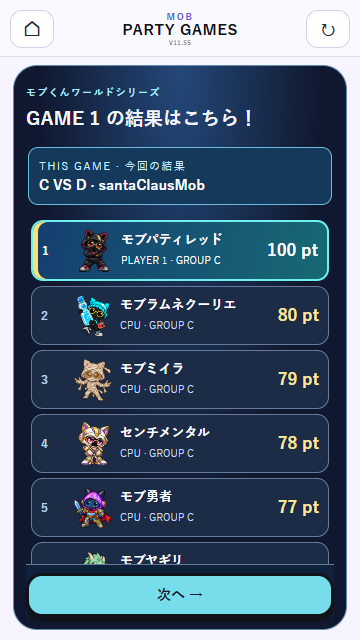
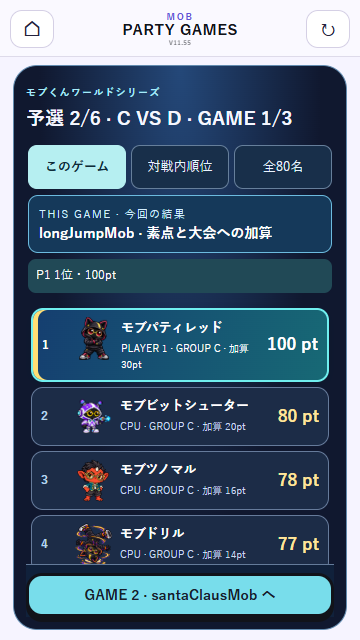
up

diff --git a/party-festival.js b/party-festival.js
@@ -20,18 +20,69 @@ window.MobFestival={create(api){
   return '<div class="festival-scroll league-ranks" tabindex="0" aria-label="出場者・順位一覧">'+ids.map((id,i)=>{const a=p(id),rank=Object.hasOwn(values,id)?1+ids.filter(other=>(values[other]||0)>(values[id]||0)).length:i+1;return '<article class="festival-row league-rank '+(!a.cpu?'human-banner':'')+'" data-player="'+id+'"><b class="festival-place">'+rank+'</b><div><img src="'+a.img+'" alt=""><strong>'+esc(a.name)+'</strong><small>'+(!a.cpu?'PLAYER '+a.no:'CPU')+(mode==='world'?' · GROUP '+String.fromCharCode(65+a.group):'')+(a.seed?' · SEED':'')+(s.lit.includes(id)?' · ● 点灯':'')+(notes[id]!==undefined?' · '+esc(typeof notes[id]==='number'?'加算 '+notes[id]+'pt':notes[id]):'')+'</small></div><strong>'+(hidden?'？？？':Object.hasOwn(values,id)?values[id]+' pt':'')+'</strong></article>'}).join('')+'</div>';
  }
  function scope(overall=false,text=''){return '<div class="ranking-scope '+(overall?'overall':'round')+'"><small>'+(overall?'OVERALL · 総合順位':'THIS GAME · 今回の結果')+'</small><strong>'+esc(text||(overall?'大会の累計ポイント':'このゲームだけの順位'))+'</strong></div>'}
- function groupIntro(index=0){
-  if(index===4){progress();return}const letter=String.fromCharCode(65+index),ids=s.players.filter(p=>p.group===index).map(p=>p.id);
-  view('GROUP '+letter,speech(letter+'グループのみなさんはこっちらです！')+'<div class="festival-group-emblem" aria-hidden="true">'+letter+'</div>'+rows(ids)+button(index===3?'開幕戦へ！':'次のグループへ →'),'festival-roster festival-group-'+index);on(()=>groupIntro(index+1));
+ function groupIntro(index=s.players.find(player=>!player.cpu)?.group || 0){
+  const letter=String.fromCharCode(65+index);
+  const ids=s.players.filter(player=>player.group===index).map(player=>player.id);
+  const tabs=['A','B','C','D'].map((name,i)=>
+    '<button data-group="'+i+'" aria-pressed="'+(i===index)+'">'+name+'組</button>').join('');
+  view('予選の組み分け', '<nav class="festival-tabs">'+tabs+'</nav>'+
+    speech(letter+'グループのみなさんはこっちらです！')+rows(ids)+button('第1カード A VS B へ'),'festival-roster');
+  screen.querySelectorAll('[data-group]').forEach(el=>el.onclick=()=>groupIntro(Number(el.dataset.group)));
+  on(progress);
  }
  function bracket(done,highlight=null){
-  const rounds=[s.players.map(p=>p.id)];for(let r=0;r<5;r++){const previous=rounds[r],next=[];for(let i=0;i<previous.length;i+=2){const rec=s.history.find(h=>h.type==='match'&&h.round===r&&h.winner&&h.ids.includes(previous[i]));next.push(rec?.winner||null)}rounds.push(next)}
-  const labels=['ROUND 32','BEST 16','BEST 8','SEMI FINAL','FINAL','CHAMPION'];
-  const html=rounds.map((ids,r)=>'<section class="festival-bracket-round" style="--bracket-step:'+48*2**r+'px"><h2>'+labels[r]+'</h2><div class="festival-bracket-slots">'+ids.map((id,i)=>{const c=id?p(id):null,won=id&&rounds[r+1]?.includes(id),lost=id&&s.history.some(h=>h.round===r&&h.winner&&h.ids.includes(id)&&h.winner!==id);return '<article class="bracket-slot '+(c&&!c.cpu?'human-banner ':'')+(id===highlight?'bracket-advance ':'')+(won?'bracket-won ':'')+(lost?'bracket-lost':'')+'" '+(id?'data-bracket-player="'+id+'"':'')+'>'+ (c?'<img src="'+c.img+'" alt=""><span>'+esc(c.name)+'<small>'+(!c.cpu?'PLAYER '+c.no:won?'勝ち上がり':lost?'敗退':'CPU')+'</small></span>':'<span>対戦待ち</span>')+'</article>'}).join('')+'</div></section>').join('');
-  view(highlight?'勝ち上がり決定！':'32名 · TOURNAMENT',scope(false,highlight?p(highlight).name+' が次のステージへ！':'4ブロックから、頂点へ。横に送ると決勝まで確認できます。')+'<nav class="bracket-nav" aria-label="ブロックへ移動">'+['A','B','C','D'].map((label,i)=>'<button data-block="'+i+'">'+label+'ブロック</button>').join('')+'</nav><div class="festival-bracket" tabindex="0" aria-label="32名トーナメント表">'+html+'</div>'+button(s.champion?'優勝セレモニーへ':'次の勝負へ →'),'festival-bracket-view');on(done);
-  screen.querySelectorAll('[data-block]').forEach(b=>b.onclick=()=>{const id=s.players[Number(b.dataset.block)*8].id;screen.querySelector('[data-bracket-player="'+id+'"]')?.scrollIntoView({block:'nearest',inline:'start',behavior:'instant'})});
-  if(!highlight){const human=s.players.find(p=>!p.cpu);if(human)screen.querySelector('[data-bracket-player="'+human.id+'"]')?.scrollIntoView({block:'nearest',inline:'start',behavior:'instant'})}
-  if(highlight){api.beep(1047,160,.025);const slots=screen.querySelectorAll('.bracket-advance');slots[slots.length-1]?.scrollIntoView({block:'nearest',inline:'center',behavior:'instant'})}
+  const entrants=s.players.map(player=>player.id);
+  const levels=[entrants], names=['1回戦','2回戦','準々決勝','準決勝','決勝'];
+  const records=[];
+  for(let round=0;round<5;round++){
+    const slots=levels[round], matches=[];
+    for(let i=0;i<slots.length;i+=2){
+      matches.push(s.history.find(h=>h.round===round&&h.winner&&h.ids.includes(slots[i])));
+    }
+    records.push(matches);
+    levels.push(matches.map(record=>record?.winner));
+  }
+  const focus=highlight||s.players.find(player=>!player.cpu)?.id;
+  let round=highlight?Math.min(4,levels.findLastIndex(slots=>slots.includes(highlight))):Math.min(4,s.round);
+  let block=Math.max(0,Math.floor(entrants.indexOf(focus)/8));
+  function render(){
+    const slots=levels[round], size=round<3?8/(2**round):slots.length;
+    const start=round<3?block*size:0;
+    const choices=names.map((name,i)=>'<option value="'+i+'" '+(i===round?'selected':'')+'>'+name+'</option>').join('');
+    const tabs=['A','B','C','D'].map((name,i)=>'<button data-block="'+i+'" aria-pressed="'+(i===block)+'">'+name+'組</button>').join('');
+    const matches=[];
+    for(let i=start;i<start+size;i+=2){
+      const match=i/2,record=records[round][match];
+      const sides=slots.slice(i,i+2).map((id,side)=>{
+        if(!id)return '<div class="draw-entry pending">'+names[round-1]+' 第'+(i+side+1)+'試合の勝者</div>';
+        const player=p(id),winner=record?.winner===id;
+        return '<div data-bracket-player="'+id+'" class="draw-entry '+(!player.cpu?'human-banner ':'')+(highlight===id?'bracket-advance':'')+'"><img src="'+player.img+'" alt=""><span>'+esc(player.name)+(!player.cpu?' <small>P'+player.no+'</small>':'')+'</span><b>'+(winner?'勝 ': '')+(record?record.scores[id]+'点':'')+'</b></div>';
+      }).join('');
+      const next=round===4?'勝者が優勝':names[round+1]+' 第'+(Math.floor(match/2)+1)+'試合へ';
+      matches.push('<article class="draw-match"><header>第'+(match+1)+'試合 <small>'+next+'</small></header>'+sides+'</article>');
+    }
+    view('32名トーナメント表','<div class="draw-controls"><label>ラウンド<select id="drawRound">'+choices+'</select></label>'+
+      (round<3?'<nav class="festival-tabs">'+tabs+'</nav>':'')+'</div>'+
+      (highlight?'<p class="draw-promotion">'+esc(p(highlight).name)+(s.champion?' が優勝！':' が勝ち上がり！')+'</p>':'')+
+      matches.join('')+button(s.champion?'優勝画面へ':'対戦へ進む'),'draw-board');
+    screen.querySelector('#drawRound').onchange=e=>{round=Number(e.target.value);render()};
+    screen.querySelectorAll('[data-block]').forEach(el=>el.onclick=()=>{block=Number(el.dataset.block);render()});
+    on(done);
+  }
+  render();
+ }
+ function worldPage(heading,pages,selected,label,next){
+  function render(i){
+    const page=pages[i],ranked=R.ranked(page.ids,page.scores);
+    const controls=pages.map((item,n)=>'<button data-scores="'+n+'" aria-pressed="'+(n===i)+'">'+item.label+'</button>').join('');
+    const personal=ranked.filter(row=>!p(row.id).cpu).map(row=>'P'+p(row.id).no+' '+row.rank+'位・'+row.points+'pt').join(' ／ ');
+    view(heading,'<nav class="festival-tabs">'+controls+'</nav>'+scope(page.overall,page.caption)+
+      (personal?'<p class="personal-standing">'+personal+'</p>':'')+
+      rows(ranked.map(row=>row.id),page.scores,false,page.notes)+button(label),'festival-results');
+    screen.querySelectorAll('[data-scores]').forEach(el=>el.onclick=()=>render(Number(el.dataset.scores)));
+    on(next);
+  }
+  render(selected);
  }
  function speech(text,pink=false){return '<aside class="festival-host"><img src="'+(pink?'main/012.png':'assets/commentary/mob-white.png')+'" alt="'+(pink?'モブピンク':'モブホワイト')+'"><p><small>'+(pink?'モブピンク · CLEAR LINE':'モブホワイト · LIVE')+'</small><strong>'+text+'</strong></p></aside>'}
  function announce(heading,text,ids,next,cls=''){
@@ -130,14 +181,18 @@ window.MobFestival={create(api){
   function nextGame(){const key=d.selected[s.game];run(key,ids,false,points=>{
    const result=R.worldResult(s,points),rec=result.record;if(rec.game===3)s.worldDraw=null;for(const id of ids)s.legScores[id]=(s.legScores[id]||0)+rec.earned[id];save();
    const advance=()=>{s.worldDraw=null;save();if(s.phase==='final')finalists();else world()};
-   if(cpuOnly(ids)){if(rec.game<3){nextGame();return}standings(label+' · CPU 3戦の総合結果',ids,s.legScores,advance);return}
-   view('GAME '+rec.game+' の結果はこちら！',scope(false,label+' · '+title(key))+rows(R.ranked(ids,points).map(r=>r.id),points,false,rec.earned)+'<p>順位点＋得点ボーナスを総合に加算しました。</p>'+button(),'festival-results');
-   on(()=>{if(rec.game<3){standings(label+' · 現在の総合順位',ids,s.legScores,nextGame);return}
-    standings(label+' の総合はこっちらです！',ids,s.legScores,()=>standings('A～D・80名の総合はこっちらです！',s.players.map(p=>p.id),s.phase==='final'?s.qualifyingScores:s.scores,()=>{s.worldDraw=null;save();if(s.phase==='final')finalists();else world()}));
-   });
+   const gamePage={label:'このゲーム',caption:title(key)+' · 素点と大会への加算',ids,scores:points,notes:rec.earned};
+   const cardPage={label:'対戦内順位',caption:label+' の累計獲得ポイント',ids,scores:s.legScores,overall:true};
+   const allPage={label:'全80名',caption:'予選総合 · 上位20名が決勝へ',ids:s.players.map(player=>player.id),scores:rec.totals,overall:true};
+   if(cpuOnly(ids)&&rec.game<3){nextGame();return}
+   const more=rec.game<3;
+   const nextPair=R.MATCHUPS[rec.leg+1]?.map(n=>String.fromCharCode(65+n)).join(' VS ');
+   const nextLabel=more?'GAME '+(rec.game+1)+' · '+title(d.selected[rec.game])+' へ':nextPair?nextPair+' へ':s.phase==='cutoff'?'進出決定戦へ':'決勝進出者を見る';
+   worldPage('予選 '+(rec.leg+1)+'/6 · '+label+' · '+(cpuOnly(ids)?'CPU 3戦終了':'GAME '+rec.game+'/3'),
+     [gamePage,cardPage,allPage],cpuOnly(ids)?1:0,nextLabel,more?nextGame:advance);
   })}
   if(cpuOnly(ids)){nextGame();return}
-  announce(label+' 開っ始です！！','はいです！ '+label+'、激突です！！ 10候補から3ゲームで勝負です！',ids,()=>roulette(d,nextGame),'festival-match-start festival-roster');
+  announce('予選 '+(s.leg+1)+'/6 · '+label+' 開っ始です！！','はいです！ '+label+'、激突です！！ 10候補から3ゲームで勝負です！',ids,()=>roulette(d,nextGame),'festival-match-start festival-roster');
  }
  function finalists(){announce('決勝に進む上位20名はこっちらです！！','決勝は0点スタート！ 80点で点灯、点灯後の1位で優勝です！ 5人点灯ごとに集中爆弾です！',s.finalists,worldFinal,'festival-qualified')}
  function worldFinal(){
@@ -145,7 +200,11 @@ window.MobFestival={create(api){
   const play=()=>run(key,ids,false,points=>{
    const result=R.worldResult(s,points,{bomb});save();
    if(s.champion){champion(s.champion);return}
-   const show=()=>standings('GAME '+s.history.length+' の結果はこちら！',ids,points,()=>standings('決勝の総合順位はこちら！',s.finalists,s.scores,worldFinal));
+   const finalRound=s.history.filter(record=>['final','showdown'].includes(record.phase)).length;
+   const show=()=>worldPage('決勝 第'+finalRound+'戦',[
+     {label:'このゲーム',caption:title(key),ids,scores:points,notes:result.record.earned},
+     {label:'決勝総合',caption:'80ptで点灯 · 点灯後の1位で優勝',ids:s.finalists,scores:s.scores,overall:true}
+   ],0,'次の決勝戦へ',worldFinal);
    if(result.newLit?.length&&!cpuOnly(ids))announce('MATCH POINT · 点灯！','次の単独1位で優勝です！！',result.newLit,show,'festival-ignition');else show();
   });
   if(cpuOnly(ids)){play();return}

diff --git a/party-october-games.js b/party-october-games.js
@@ -3,7 +3,30 @@
  const clamp=v=>Math.max(0,Math.min(1,v));
  const quality=value=>clamp(1-Math.max(0,Math.abs(value-.5)-.045)/.455);
  const catchCount=values=>Math.min(35,Math.round(35*Math.pow(values.reduce((a,v)=>a*quality(v),1),.55)));
- async function run(api){const {screen,key,player,valid,esc,beep}=api,extreme=key==='catcherExtremeMob';let phase='ready',step=0,value=0,start=0,raf=0,chosen=null,values=[],finished=false;
+
+ async function runPlush(api){
+ const {screen,player,valid,esc,beep}=api,prizes=[100,80,65],positions=[36,60,84];
+ let phase='ready',chosen=0,start=0,raf=0,value=0;
+ screen.innerHTML=`<section class="oct-crane ufo-plush-machine gameplay-fit"><header><small>${esc(player.name)}</small><h2>モブくんはぬいぐるみが好き</h2></header><div class="oct-crane-hud"><b>1回勝負</b><strong id="plushStatus">景品を選ぼう</strong></div><div class="ufo-plush-cabinet"><div class="ufo-plush-marquee">MOB UFO CATCHER</div><div class="ufo-plush-rail"></div><div class="ufo-plush-chute"><b>GET</b></div><div class="ufo-plush-shelf"></div>${prizes.map((n,i)=>`<div class="ufo-plush-prize" style="left:${positions[i]}%"><img id="plushToy${i}" src="icon/${String(i+1).padStart(2,'0')}.png" alt="${n}点のぬいぐるみ"><b>${n}点</b></div>`).join('')}<div class="ufo-plush-aim" hidden></div><div class="ufo-plush-carriage" id="plushCarriage"><div class="ufo-plush-cable"></div><div class="ufo-plush-head"><i class="ufo-plush-finger left"></i><i class="ufo-plush-finger right"></i></div></div><div class="ufo-plush-score" hidden></div></div><p id="plushGuide">景品を選び、アームを真上で止めよう！</p><div class="oct-targets">${prizes.map((n,i)=>`<button data-prize="${i}" disabled>${n}点<small>${['むずかしい','ふつう','やさしい'][i]}</small></button>`).join('')}</div><button class="primary" id="plushStop" disabled>準備中</button></section>`;
+ const cabinet=screen.querySelector('.ufo-plush-cabinet'),carriage=screen.querySelector('#plushCarriage'),stop=screen.querySelector('#plushStop'),guide=screen.querySelector('#plushGuide'),status=screen.querySelector('#plushStatus'),aim=screen.querySelector('.ufo-plush-aim');
+ const at=now=>(1-Math.cos((now-start)/1000*Math.PI*1.6))/2;
+ function position(v){carriage.style.left=(positions[chosen]+(v-.5)*20)+'%'}
+ function frame(now){if(!valid()||phase!=='aim')return;value=at(now);position(value);raf=requestAnimationFrame(frame)}
+ const wait=ms=>new Promise(r=>setTimeout(r,ms));
+ async function grab(score){
+ phase='grab';cancelAnimationFrame(raf);stop.disabled=true;aim.hidden=true;carriage.classList.add('moving');guide.textContent='アーム下降！';carriage.style.top='55%';await wait(550);if(!valid())return;
+ carriage.classList.add('closed');beep(420,70,.02);await wait(240);if(!valid())return;
+ const toy=screen.querySelector('#plushToy'+chosen);
+ if(score){toy.classList.add('ufo-plush-held');carriage.append(toy);guide.textContent='つかんだ！ 取り出し口へ';}else guide.textContent='惜しい！ 景品の中心からずれた…';
+ carriage.style.top='24%';await wait(550);if(!valid())return;
+ if(score){carriage.style.left='12%';await wait(650);if(!valid())return;carriage.classList.remove('closed');toy.style.left='12%';toy.style.top='calc(24% + 23px)';toy.className='ufo-plush-dropping';cabinet.append(toy);void toy.offsetHeight;toy.style.top='79%';await wait(480);if(!valid())return;}
+ phase='done';const result=screen.querySelector('.ufo-plush-score');result.hidden=false;result.textContent=score?score+'点 GET!':'0点';status.textContent=score?'キャッチ成功！':'キャッチ失敗';guide.textContent=score?'取り出し口に景品が届いた！':'次はアームを景品の真上で止めよう！';stop.disabled=false;stop.textContent='結果を見る';stop.onclick=()=>{if(!valid())return;stop.disabled=true;api.done(score,prizes[chosen]+'点のぬいぐるみ / 1回勝負')};beep(score?1050:180,180,.03);
+ }
+ stop.onclick=()=>{if(phase!=='aim'||!valid())return;value=at(performance.now());position(value);const ok=Math.abs(value-.5)<=[.045,.10,.16][chosen];grab(ok?prizes[chosen]:0)};
+ if(!(await api.countdown())||!valid())return;phase='choose';stop.textContent='景品を選んでください';
+ screen.querySelectorAll('[data-prize]').forEach(b=>{b.disabled=false;b.onclick=()=>{if(phase!=='choose'||!valid())return;chosen=Number(b.dataset.prize);screen.querySelectorAll('[data-prize]').forEach(x=>{x.disabled=true;x.classList.toggle('selected',x===b)});aim.style.left=positions[chosen]+'%';aim.hidden=false;status.textContent=prizes[chosen]+'点に挑戦';guide.textContent='動くアームを景品の真上でSTOP！';stop.textContent='ここでアームを下ろす';stop.disabled=false;phase='aim';start=performance.now();frame(start)}});
+ }
+ async function run(api){if(api.key==='plushCatcher')return runPlush(api);const {screen,key,player,valid,esc,beep}=api,extreme=key==='catcherExtremeMob';let phase='ready',step=0,value=0,start=0,raf=0,chosen=null,values=[],finished=false;
  screen.innerHTML=`<section class="oct-crane gameplay-fit"><header><small>${esc(player.name)}</small><h2>${extreme?'モブくんキャッチャーの極み':'モブくんはぬいぐるみが好き'}</h2></header><div class="oct-crane-hud"><b>1回勝負</b><strong id="octStatus">${extreme?'35体 / 3つのゲージ':'狙うぬいぐるみを選ぼう'}</strong></div><div class="oct-cabinet"><div class="oct-rail"></div><div class="oct-claw" id="octClaw"><i></i><b>∩</b></div><div class="oct-toys">${Array.from({length:extreme?35:3},(_,i)=>`<img data-toy="${i}" src="icon/${String(i%10+1).padStart(2,'0')}.png" alt="ぬいぐるみ" style="--toy:${i}">`).join('')}</div><div class="oct-result" id="octResult" hidden></div></div><p id="octGuide">${extreme?'白線の中央でSTOP！ 大きさ → 幅 → 強さ':'高い得点ほど成功する範囲が狭くなります'}</p>${extreme?'':`<div class="oct-targets">${[100,80,65].map((n,i)=>`<button data-prize="${n}" data-difficulty="${i}">${n}点<small>${['むずかしい','ふつう','やさしい'][i]}</small></button>`).join('')}</div>`}<div class="oct-gauge" id="octGauge"><span></span><i id="octNeedle"></i><b>中央が最大</b></div><button class="primary" id="octStop" disabled>準備中</button></section>`;
  const stop=screen.querySelector('#octStop'),needle=screen.querySelector('#octNeedle'),guide=screen.querySelector('#octGuide'),status=screen.querySelector('#octStatus'),claw=screen.querySelector('#octClaw'),result=screen.querySelector('#octResult');
  if(!extreme)screen.querySelector('.oct-toys').classList.add('plush');

diff --git a/party-ui.css b/party-ui.css
@@ -515,3 +515,48 @@ html body #screen :is(input,textarea,select,[contenteditable]:not([contenteditab
 @media(max-height:640px){#screen .launch-shell .gauge-wrap{padding:8px!important;gap:6px}#screen .launch-shell .gauge-card{padding:7px}#screen .launch-shell .circle-gauge{width:clamp(130px,25dvh,180px);height:clamp(130px,25dvh,180px)}}
 .league-level-setup{display:grid;grid-template-columns:repeat(2,minmax(0,1fr));gap:5px}.league-level-setup>header,.league-level-setup>p,.league-level-setup>button{grid-column:1/-1}.league-level-setup>label{min-width:0;margin:2px 0!important}.league-level-setup select{width:100%;font-size:12px}.league-level-setup>p{margin:3px 0!important}.league-level-setup h1{font-size:23px!important}
 .league-level-setup .league-setup-actions{grid-column:1/-1;display:grid;grid-template-columns:1fr 1fr;gap:6px}.league-level-setup .league-setup-actions button{min-height:44px;margin:0}.league-level-setup #leagueSelect{grid-column:1/-1;order:-1}.league-level-setup .league-setup-actions:not(:has(#leagueResume)) #leagueBack{grid-column:1/-1}
+
+/* Mode choice and setup share the same visual hierarchy. */
+#screen .party-title{background:#f4f2e9;color:#17364b;border:1px solid #b5c9cb;border-radius:24px;padding:20px 14px}
+#screen .party-title>h1{font-size:clamp(28px,7vw,54px);margin:6px 0;line-height:1.05}
+#screen .party-title>.party-eyebrow,#screen .party-title-star,#screen .party-orbit{display:none}
+#screen .party-title .party-cast{height:88px;min-height:0;margin:5px 0 14px;overflow:hidden}
+#screen .party-title .party-cast img{height:84px;width:auto;max-width:35%;object-fit:contain}
+#screen .party-title .party-stage-label{display:none}
+#screen .party-title .party-tagline{color:#345366;margin:8px 0;font-size:14px}
+#screen .party-menu{display:block}
+.mode-group{margin:0 0 20px}.mode-group>h2{text-align:left;color:#18384c;font-size:18px;margin:10px 0}
+.mode-cards{display:grid;grid-template-columns:repeat(2,minmax(0,1fr));gap:10px}
+#screen .party-menu-button{--mode-color:#a3dfe1;display:flex;flex-direction:column;align-items:flex-start;justify-content:center;gap:7px;padding:15px 12px;min-width:0;min-height:130px;background:linear-gradient(135deg,#142e47ed,#233c54ec),url("assets/stage-scenes/showhall.webp") center/cover;color:#fff;border:1px solid #7693a3;border-top:4px solid var(--mode-color);border-radius:16px;box-shadow:0 4px 0 #142e471a;text-align:left;transform:none}
+#screen .party-menu-button>span:last-child{display:none}#screen .party-menu-button .party-menu-icon{display:none}
+#screen .party-menu-button b{font-size:16px;color:#fff;line-height:1.45;display:block;overflow-wrap:anywhere}
+#screen .party-menu-button small{font-size:9px;letter-spacing:.04em;color:var(--mode-color);display:block}
+#screen .party-menu-button em{font-size:11px;line-height:1.5;color:#dce6ec;display:block;margin-top:5px;font-style:normal}
+#screen #partySolo,#screen #partyMulti{--mode-color:#a7e6c9;background:linear-gradient(135deg,#214d48ed,#173c46ed),url("assets/stage-scenes/garden.webp") center/cover}
+#screen #partyTournament,#screen #partyKing,#screen #partyArena{--mode-color:#f3d39b}
+#screen #partyWhiteChallenge{--mode-color:#f4bacb}
+#screen .party-menu-button:hover{border-color:#53a5ac;box-shadow:0 5px 15px #142e472b}
+#screen :is(button,select):focus-visible{outline:3px solid #edac42;outline-offset:3px}
+#screen .setup-panel{background:linear-gradient(140deg,#18394f,#102237);color:#f5f8ff;border:1px solid #638795;border-radius:20px}
+#screen .setup-panel>header{border-bottom:1px solid #5c778b;padding:8px 3px 12px;text-align:left}
+#screen .setup-panel>header h1{color:#fff;font-style:normal}
+#screen .setup-panel .competition-body>label,#screen .setup-panel .competition-body .variant-assignments label,#screen .setup-panel .league-setup label{background:#213e55;color:#e3f3fa;border:1px solid #56798b;border-radius:12px;padding:10px;display:grid;gap:7px;margin:10px 0;font-size:12px}
+#screen .setup-panel select{background:#f3f6ef;color:#17364b;border:2px solid #82b7bc;border-radius:9px;font-size:16px;min-height:44px;width:100%}
+#screen .competition-actions button.primary,#screen .competition-actions .party-primary{background:#b8edf0;color:#12323f;border:1px solid #82bdc1;font-weight:800;border-radius:12px}
+#screen .competition-actions button.secondary{background:#284358;color:#eef5f8;border:1px solid #678798;border-radius:12px}
+#screen .shared-character-select{background:#152e45;color:#fff;border-radius:20px;border:1px solid #6c8a9d}
+#screen .shared-character-select .party-heading h1{color:#fff;font-size:23px}
+#screen .shared-character-select .party-eyebrow{color:#b4e9eb}
+#screen .shared-character-select .character-filter{color:#e1edf5}
+#screen .shared-character-select .character-tile{background:#264257;color:#fff;border:1px solid #688398;border-radius:12px;box-shadow:none}
+#screen .shared-character-select .character-tile span{color:#fff}
+#screen .shared-character-select .character-tile[aria-pressed=true]{background:#436567;border:3px solid #ffe2a1;box-shadow:inset 0 0 0 1px #253f4f}
+#screen .shared-character-select .character-tile:disabled{opacity:.4}
+#screen .shared-character-select .party-player-slots span{background:#284458;color:#fff;border:1px solid #658194}
+#screen .shared-character-select .party-player-slots .current{background:#c9eff0;color:#173748;border-color:#c9eff0}
+#screen .shared-character-select .party-fighter-dock{background:#152e45;border-top:1px solid #6b91a4}
+#screen .shared-character-select .party-spotlight{background:#23475a;color:#fff;border:1px solid #6d929d;border-radius:12px}
+#screen .shared-character-select .party-spotlight h2{color:#fff}
+#screen .shared-character-select .party-spotlight small{color:#d2e9ee}
+#screen .shared-character-select #partyConfirm{background:#b9edf0;color:#163848;border:1px solid #8dbfc4;border-radius:12px;min-height:48px}
+@media(min-width:760px){.mode-cards{grid-template-columns:repeat(3,minmax(0,1fr))}}

diff --git a/party-scene-art.css b/party-scene-art.css
@@ -10,3 +10,34 @@
 [data-classic="catcher"] .ufo-marquee{background-color:#454965;color:#fff0bd;text-shadow:0 2px 2px #142338}[data-classic="catcher"] .ufo-glass{background-color:#746c90;box-shadow:inset 0 0 0 2px #b9cbc3,inset 0 0 35px #28355244}[data-classic="catcher"] .ufo-back-logo{color:#fff0c01c;text-shadow:none}[data-classic="catcher"] .ufo-control-panel{background:linear-gradient(#e9dbc1,#bbad9d);border-color:#667487;box-shadow:inset 0 3px 0 #fff2c8}[data-classic="catcher"] .ufo-chute{box-shadow:inset 0 0 0 2px #e9d5a4,inset 0 5px 10px #192b3b55}
 [data-classic="tidy"] .tidy-room{background-color:#c6c6aa;border-color:#698183;box-shadow:inset 0 0 0 2px #e7dfbc}[data-classic="tidy"] .tidy-room-label{color:#263f48;background:#e5dfc5;border-radius:6px;box-shadow:inset 0 -2px #a6a68b}[data-classic="tidy"] .tidy-shelf{background:linear-gradient(90deg,#987355,#d0a47c,#987355);box-shadow:inset 0 3px 0 #e4c398,0 5px 5px #4e493e44}[data-classic="tidy"] .tidy-table{background:linear-gradient(#d4ad79,#a17d58);box-shadow:inset 0 2px #f0d2a1,0 5px 4px #78604544}[data-classic="tidy"] .tidy-rug{background:repeating-linear-gradient(90deg,#a4b6a0 0 6px,#bdc6a9 6px 10px);border-color:#637f70}
 [data-classic="ski"] .ski-stage{background-color:#a6cbd2;box-shadow:inset 0 0 0 2px #c2dcd8;border-color:#668d9b}[data-classic="ski"] .ski-slope-main,[data-classic="ski"] .ski-flight-ground{filter:drop-shadow(0 4px 2px #527d8955)}[data-classic="ski"] .ski-takeoff-lip{box-shadow:0 0 0 2px #fff2bb}
+
+/* Static illustrations sit on the stage surface, below every interactive piece. */
+#screen .fruit-bg-v197 { --stage-art: url("assets/stage-scenes/orchard.webp"); }
+#screen .cloth-room-v202 { --stage-art: url("assets/stage-scenes/dining.webp"); }
+#screen .clean-floor-v203 { --stage-art: url("assets/stage-scenes/parquet.webp"); }
+#screen .poi-stage-v204 { --stage-art: url("assets/stage-scenes/depot.webp"); }
+#screen .oct-cabinet { --stage-art: url("assets/stage-scenes/cabinet.webp"); }
+#screen .amida100-stage-v203 { --stage-art: url("assets/stage-scenes/paper.webp"); }
+#screen :is(.rps224-stage, .bombpass-stage-v202) { --stage-art: url("assets/stage-scenes/arena.webp"); }
+#screen :is(.fruit-bg-v197,.cloth-room-v202,.clean-floor-v203,.poi-stage-v204,.oct-cabinet,.amida100-stage-v203,.rps224-stage,.bombpass-stage-v202) {
+  background-image: var(--stage-art);
+  background-position: center;
+  background-size: 100% 100%;
+  background-repeat: no-repeat;
+}
+#screen .rps224-stage::before { opacity: .12; }
+#screen .obsrace-stage-v202 { background: #b1cfcd url("assets/stage-scenes/track.webp") center / 100% 100% no-repeat; }
+#screen .obsrace-world-v202 { background: transparent; }
+
+#screen .treasure-stage-v126 { background-image:url("assets/stage-scenes/ruins.webp"); }
+#screen .treasure-stage-v126 { background-size:100% 100%;background-position:center;background-repeat:no-repeat; }
+
+/* Active games only: bungeeMob, curlingMob, swimmingMob, waterSkip.
+   Scenery stays below existing targets; no changes to world geometry or input. */
+#screen .bungee-stage-v127 { background-image:url("assets/stage-scenes/canyon.svg"); background-size:100% 100%; }
+#screen .curling48-ice { background-image:url("assets/stage-scenes/ice-rink.svg"); background-size:100% 100%; }
+#screen .swim-world-v203 { background-image:url("assets/stage-scenes/pool.svg"); background-size:640px 100%; background-repeat:repeat-x; }
+#screen .skip-world-v170 { background-image:url("assets/stage-scenes/lakeside.svg"); background-size:640px 100%; background-repeat:repeat-x; }
+#screen :is(.skip-sky-v170,.skip-hills-v170) { background:transparent; border:0; }
+#screen .skip-water-v170 { background:linear-gradient(#78bec9,#559aaa); border-top-color:#e9f1d7; }
+#screen .bungee-ground-v127 { background:linear-gradient(#98ae78 0 9px,#bdac83 9px 100%); }

diff --git a/party-october-games.css b/party-october-games.css
@@ -7,3 +7,15 @@
 .pinball-bonus-coin{position:absolute;width:28px;height:28px;border-radius:50%;background:#ffd653;color:#473004;border:3px solid #b77b16;transform:translate(-50%,-50%);font-size:12px;display:grid;place-items:center;box-shadow:0 0 12px #ffdb6d;pointer-events:none}.pinball-bonus-coin.collected{animation:coin-get-1024 .65s forwards;background:#fff;color:#453000}@keyframes coin-get-1024{to{transform:translate(-50%,-180%) scale(1.2);opacity:0}}
 
 #swimDive203 small{display:block;font-size:11px;line-height:1.1}#swimDive203{white-space:nowrap}
+
+/* Plush crane: actual moving claw, carried prize and delivery chute. */
+.ufo-plush-machine .ufo-plush-cabinet{position:relative;flex:1;min-height:150px;overflow:hidden;border:5px solid #eac459;border-radius:12px;background:linear-gradient(#9bb7ca,#d9e6de 65%,#9caaa6 66%);box-shadow:inset 0 0 0 3px #f8e7aa}
+.ufo-plush-marquee{position:absolute;top:0;left:0;right:0;height:24px;background:#385769;color:#fff4cf;text-align:center;font-size:12px;font-weight:900;letter-spacing:.12em;z-index:3}
+.ufo-plush-rail{position:absolute;left:0;right:0;top:26px;height:8px;background:linear-gradient(#edf2e7,#8199a3);border-bottom:2px solid #526978}
+.ufo-plush-shelf{position:absolute;left:25%;right:0;top:77%;height:12%;background:linear-gradient(#f3d6a0 0 6px,#8b7161 6px);border:2px solid #4a5460}
+.ufo-plush-chute{position:absolute;left:3%;width:19%;top:75%;bottom:3%;border:4px solid #d9be7d;border-radius:8px;background:#152c3b;box-shadow:inset 0 5px 8px #0008;color:#fff3bc;text-align:center}
+.ufo-plush-chute b{position:absolute;bottom:0;left:0;right:0;font-size:10px}
+.ufo-plush-prize{position:absolute;top:63%;width:50px;transform:translateX(-50%);height:52px;text-align:center}.ufo-plush-prize img{display:block;width:50px;height:46px;object-fit:contain}.ufo-plush-prize>b{position:absolute;top:47px;left:5px;right:5px;background:#fff4d5;color:#23364a;font-size:11px;border-radius:4px;z-index:2}
+.ufo-plush-carriage{position:absolute;left:12%;top:24%;width:58px;height:42px;transform:translateX(-50%);z-index:4}.ufo-plush-carriage.moving{transition:top .55s ease-in-out,left .65s ease-in-out}.ufo-plush-cable{position:absolute;left:27px;bottom:35px;height:500px;width:4px;background:#466274;border-left:1px solid #e5eee9}.ufo-plush-head{position:absolute;left:12px;top:0;width:34px;height:20px;border:2px solid #39546b;border-radius:10px;background:linear-gradient(#f3f4e9,#91b7c8)}
+.ufo-plush-finger{position:absolute;top:12px;width:10px;height:35px;border:4px solid #38576a;border-top:0;background:linear-gradient(90deg,#afc8d2,#f6f8ef);transition:transform .22s;transform-origin:50% 0}.ufo-plush-finger.left{left:-4px;border-radius:0 0 0 12px;transform:rotate(26deg)}.ufo-plush-finger.right{right:-4px;border-radius:0 0 12px 0;transform:rotate(-26deg)}.closed .ufo-plush-finger.left{transform:rotate(-12deg)}.closed .ufo-plush-finger.right{transform:rotate(12deg)}
+.ufo-plush-aim{position:absolute;top:35%;height:28%;border-left:2px dashed #38576a;opacity:.55}.ufo-plush-held{position:absolute;top:23px;left:4px;width:50px;height:46px;object-fit:contain;z-index:-1}.ufo-plush-dropping{position:absolute;width:50px;height:46px;object-fit:contain;transform:translateX(-50%);transition:top .45s ease-in;z-index:3}.ufo-plush-score{position:absolute;top:38%;left:20%;right:10%;padding:8px;background:#fff4d5;color:#20394e;border:3px solid #d6aa45;border-radius:12px;text-align:center;font-size:28px;font-weight:900;z-index:6}.ufo-plush-machine p{font-size:12px;line-height:1.4}.ufo-plush-machine [hidden]{display:none}

diff --git a/index.html b/index.html
@@ -8,18 +8,18 @@
   <meta name="mobile-web-app-capable" content="yes">
   <title>MOB PARTY GAMES | 97 GAMES | V11.55</title>
   <link rel="stylesheet" href="style.css?v=1144">
-  <link rel="stylesheet" href="party-ui.css?v=20261024c">
+  <link rel="stylesheet" href="party-ui.css?v=20261118b">
   <link rel="stylesheet" href="party-season-games.css?v=20261006">
   <link rel="stylesheet" href="party-upgrade.css?v=1">
-  <link rel="stylesheet" href="party-scene-art.css?v=20261005">
+  <link rel="stylesheet" href="party-scene-art.css?v=20261118c">
   <link rel="stylesheet" href="party-league-upgrade.css?v=20261024e">
   <link rel="stylesheet" href="party-discovery.css?v=20261005">
 <link rel="stylesheet" href="party-scenes-11-30.css?v=20261005b">
 <link rel="stylesheet" href="party-arena.css?v=20261017">
 <link rel="stylesheet" href="party-doctor-game.css?v=20261024c">
   <link rel="stylesheet" href="party-commentary.css?v=20261018wrap">
-<link rel="stylesheet" href="party-october-games.css?v=20261024b">
-<link rel="stylesheet" href="party-festival.css?v=20261031-presentation">
+<link rel="stylesheet" href="party-october-games.css?v=20261118d">
+<link rel="stylesheet" href="party-festival.css?v=20261117">
 </head>
 <body>
   <div id="app">
@@ -57,17 +57,17 @@
   <script src="party-league-variants.js?v=20261031-presentation"></script>
   <script src="party-commentary.js?v=20261018wrap"></script>
   <script src="party-league-ui.js?v=20261031-presentation"></script>
-  <script src="party-ui.js?v=20261027-festival"></script>
-  <script src="party-layout.js?v=20261031-presentation"></script>
+  <script src="party-ui.js?v=20261118b"></script>
+  <script src="party-layout.js?v=20261118b"></script>
   <script src="party-season-art.js?v=20261012"></script>
   <script src="party-game-balance.js?v=20261026"></script>
   <script src="party-season-games.js?v=20261026"></script>
   <script src="party-approved-games.js?v=20261013balance"></script>
   <script src="party-arena-rules.js?v=20261024b"></script>
   <script src="party-arena.js?v=20261031-presentation"></script>
-  <script src="party-october-games.js?v=20261024b"></script>
+  <script src="party-october-games.js?v=20261118d"></script>
   <script src="party-festival-rules.js?v=20261027"></script>
-<script src="party-festival.js?v=20261031-presentation"></script>
+<script src="party-festival.js?v=20261117"></script>
 <script src="game.js?v=20261027-character-editor-cpu"></script>
 <script src="party-scenes-11-30.js?v=20261005b"></script>
 </body>

diff --git a/party-festival.css b/party-festival.css
@@ -51,3 +51,8 @@ img[data-human="true"]{filter:drop-shadow(0 0 5px #42e9ff)}
 .festival-results .ranking-scope{position:sticky;top:0;z-index:2}.bracket-nav{display:flex;gap:4px;flex-shrink:0;padding:3px 0 6px}.festival .bracket-nav button{font-size:11px;min-height:44px;margin:0;padding:4px;flex:1;width:auto;background:#254361;color:#fff;border:1px solid #789bbd}
 
 .festival-versus-banner{display:flex;align-items:center;justify-content:space-around;padding:10px 5px;border:1px solid #88cded;background:linear-gradient(110deg,#164b7e 49%,#6b234b 51%);border-radius:14px;animation:festivalMatchIn .65s ease-out}.festival-versus-banner span{text-align:center;font-size:10px;color:#fff}.festival-versus-banner b{display:block;font-size:44px;line-height:1}.festival-versus-banner>strong{font-size:28px;color:#ffe495;font-style:italic;text-shadow:0 2px 6px #000}.festival-versus-banner+ .festival-host{margin-top:8px}
+
+.festival .festival-tabs{display:flex;gap:5px;margin:4px 0}.festival .festival-tabs button{flex:1;min-width:0;min-height:44px;margin:0;padding:5px;background:#182f4a;color:#e9f4ff;border:1px solid #667f9b;border-radius:9px;font-size:13px}
+.festival .festival-tabs button[aria-pressed=true]{background:#b6eff1;color:#102b39;border-color:#b6eff1;font-weight:800}
+.draw-board .draw-controls{position:sticky;top:0;background:#13243a;padding:3px 0;z-index:1}.draw-board .draw-controls label{display:flex;align-items:center;gap:10px;margin:0;font-size:13px}.draw-board .draw-controls select{width:auto;flex:1}
+.draw-match{border:1px solid #66819e;border-radius:12px;overflow:hidden;margin:9px 0;background:#1b304a}.draw-match header{padding:5px 9px;background:#284461;color:#fff;font-weight:bold;font-size:13px;display:flex;align-items:center;justify-content:space-between}.draw-match header small{letter-spacing:normal;font-size:11px;color:#d7eaff}.draw-entry{display:flex;align-items:center;gap:8px;min-height:40px;padding:3px 9px;border-top:1px solid #506783;font-size:14px}.draw-entry img{width:30px;height:34px;object-fit:contain}.draw-entry b{margin-left:auto;color:#ffe69b;white-space:nowrap}.draw-entry small{color:#b9faff}.draw-entry.pending{color:#c3d1e2}.draw-promotion,.personal-standing{background:#214956;color:#fff;padding:8px;border-radius:8px}

diff --git a/party-ui.js b/party-ui.js
@@ -32,6 +32,19 @@
         </div>
         <footer class="party-footer"><span><b>${api.activeIndices().length}</b> MINI GAMES</span><span>1台で交代プレイ</span><button id="partyGuide">遊び方を見る ↗</button></footer>
       </section>`);
+      const menu=screen.querySelector('.party-menu');
+      const quick=document.createElement('section');
+      quick.className='mode-group';
+      quick.innerHTML='<h2>すぐ遊ぶ</h2><div class="mode-cards"></div>';
+      const tournaments=document.createElement('section');
+      tournaments.className='mode-group';
+      tournaments.innerHTML='<h2>大会で遊ぶ</h2><div class="mode-cards"></div>';
+      [...menu.querySelectorAll('.party-menu-button')].forEach(button=>{
+        const group=['partySolo','partyMulti'].includes(button.id)?quick:tournaments;
+        group.querySelector('.mode-cards').append(button);
+        button.querySelector('.party-menu-icon').setAttribute('aria-hidden','true');
+      });
+      menu.prepend(quick,tournaments);
       on('partySolo',()=>{count=1;selectCharacter();});
       on('partyTournament',api.tournament);on('partyWhiteChallenge',api.whiteChallenge);on('partyWorldSeries',api.worldSeries);on('partyArena',api.arena);on('partyLeague',api.league);on('partyCrew',api.crew);on('partyKingLeague',api.kingLeague);on('partyKing',api.king);on('partyMulti',chooseCount);on('partySettings',showSettings);on('partyGuide',api.guide);
     }

diff --git a/party-layout.js b/party-layout.js
@@ -8,6 +8,7 @@
   function fitMenus(screen){
     if(!screen)return;
     for(const panel of screen.querySelectorAll('.festival,.arena-setup,.arena-draw,.arena:has(#arenaBegin),.variant-setup,.tag-league:has(select),.tag-league:has(#leagueStart)')){
+      panel.classList.toggle('setup-panel',!!panel.querySelector('select,#leagueStart,#variantStart,#arenaBegin'));
       if(!panel.classList.contains('competition-fit')){
         const children=[...panel.children],head=children.find(el=>el.tagName==='HEADER'),actions=children.filter(el=>el.tagName==='BUTTON'||el.classList.contains('league-setup-actions'));
         if(!actions.length)continue;
